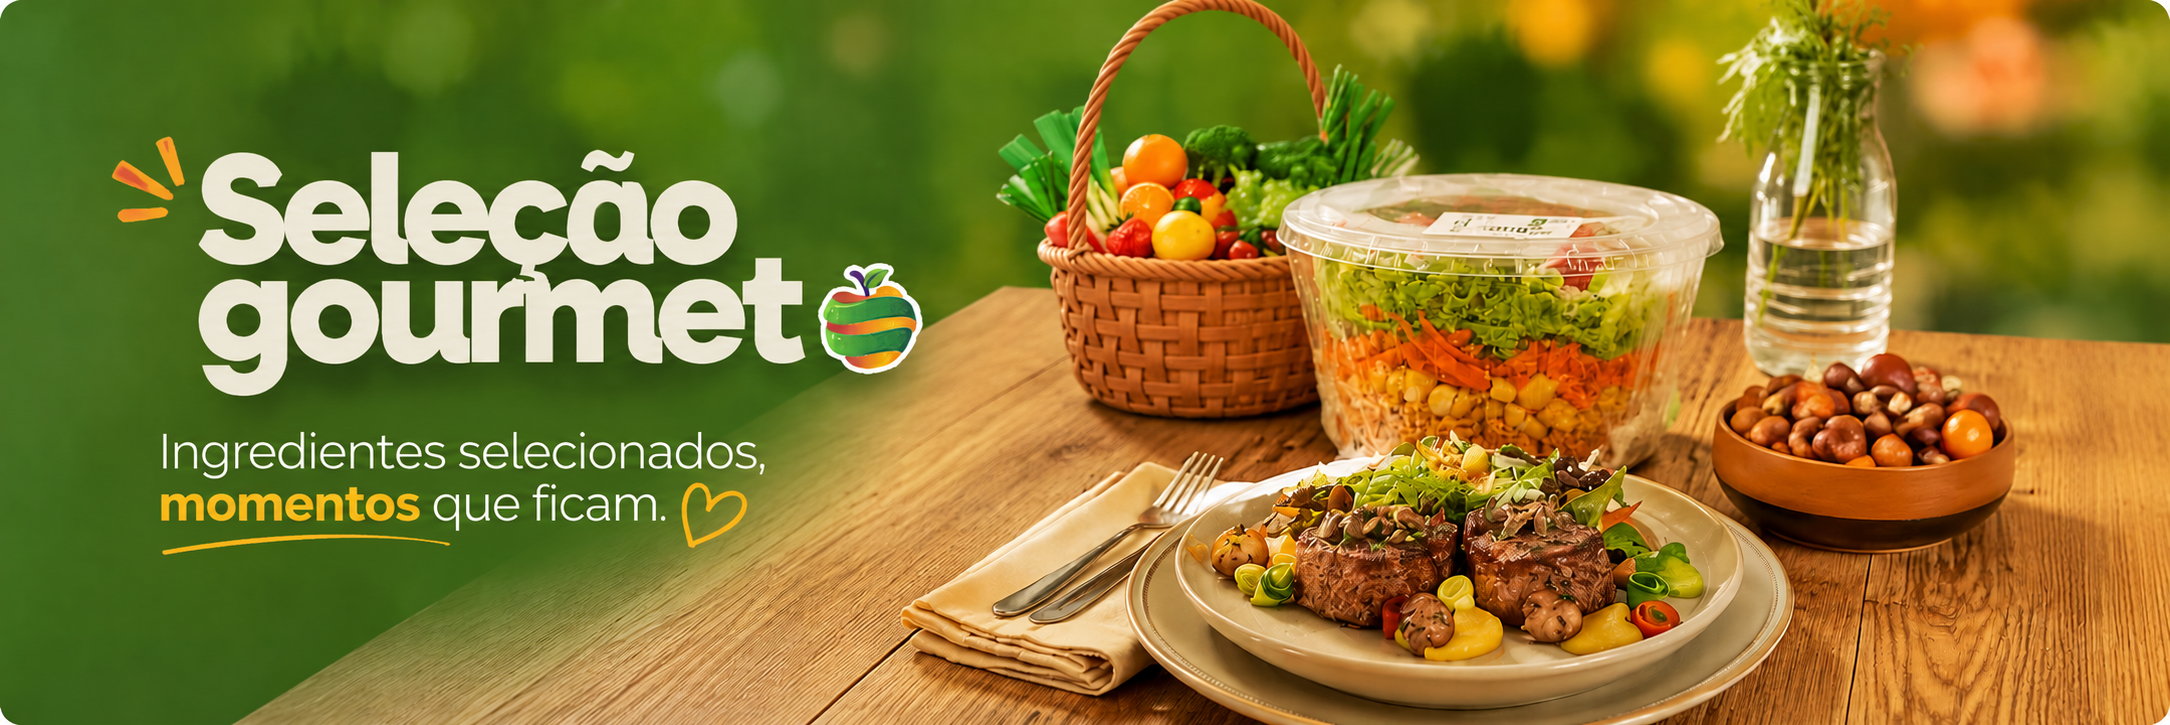
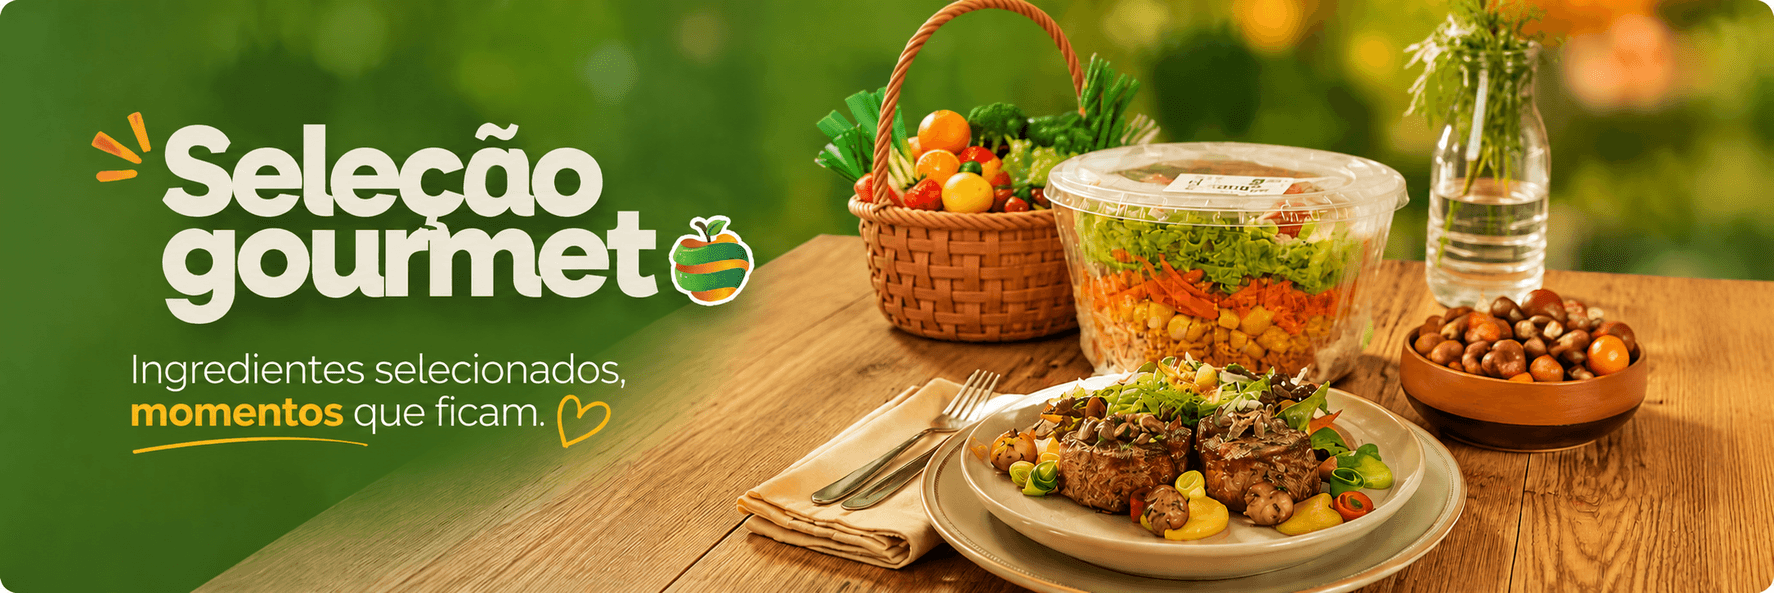
fix: resolve carousel image display issues

diff --git a/src/features/hero/hero-banner.tsx b/src/features/hero/hero-banner.tsx
@@ -67,6 +67,7 @@ export function HeroBanner({ banners = heroBanners }: HeroBannerProps) {
     hasHorizontalIntent: false,
   })
   const hasMultipleBanners = imageBanners.length > 1
+  const activeIndex = imageBanners.length ? currentIndex % imageBanners.length : 0
 
   const pauseAutoplayTemporarily = useCallback(() => {
     if (!hasMultipleBanners) return
@@ -87,10 +88,10 @@ export function HeroBanner({ banners = heroBanners }: HeroBannerProps) {
     (nextIndex: number) => {
       if (!imageBanners.length) return
 
-      setDirection(nextIndex >= currentIndex ? 1 : -1)
+      setDirection(nextIndex >= activeIndex ? 1 : -1)
       setCurrentIndex((nextIndex + imageBanners.length) % imageBanners.length)
     },
-    [currentIndex, imageBanners.length]
+    [activeIndex, imageBanners.length]
   )
 
   const goToPrevious = useCallback(() => {
@@ -105,10 +106,10 @@ export function HeroBanner({ banners = heroBanners }: HeroBannerProps) {
 
   const getSlidePosition = useCallback(
     (index: number) => {
-      if (index === currentIndex) return 0
+      if (index === activeIndex) return 0
 
-      const previousIndex = (currentIndex - 1 + imageBanners.length) % imageBanners.length
-      const nextIndex = (currentIndex + 1) % imageBanners.length
+      const previousIndex = (activeIndex - 1 + imageBanners.length) % imageBanners.length
+      const nextIndex = (activeIndex + 1) % imageBanners.length
 
       if (index === previousIndex && index === nextIndex) {
         return dragOffset > 0 || direction < 0 ? -1 : 1
@@ -117,9 +118,9 @@ export function HeroBanner({ banners = heroBanners }: HeroBannerProps) {
       if (index === previousIndex) return -1
       if (index === nextIndex) return 1
 
-      return index > currentIndex ? 2 : -2
+      return index > activeIndex ? 2 : -2
     },
-    [currentIndex, direction, dragOffset, imageBanners.length]
+    [activeIndex, direction, dragOffset, imageBanners.length]
   )
 
   const finishDrag = useCallback(
@@ -258,12 +259,6 @@ export function HeroBanner({ banners = heroBanners }: HeroBannerProps) {
   )
 
   useEffect(() => {
-    if (currentIndex <= imageBanners.length - 1) return
-
-    setCurrentIndex(0)
-  }, [currentIndex, imageBanners.length])
-
-  useEffect(() => {
     if (!hasMultipleBanners || isAutoplayPaused) return
 
     const interval = window.setInterval(goToNext, AUTOPLAY_DELAY)
@@ -283,21 +278,6 @@ export function HeroBanner({ banners = heroBanners }: HeroBannerProps) {
     }
   }, [])
 
-  useEffect(() => {
-    if (!imageBanners.length) return
-
-    const preloadIndexes = new Set([
-      currentIndex,
-      (currentIndex + 1) % imageBanners.length,
-      (currentIndex - 1 + imageBanners.length) % imageBanners.length,
-    ])
-
-    preloadIndexes.forEach((index) => {
-      const preloadImage = new window.Image()
-      preloadImage.src = imageBanners[index].image
-    })
-  }, [currentIndex, imageBanners])
-
   if (!imageBanners.length) return null
 
   return (
@@ -305,7 +285,7 @@ export function HeroBanner({ banners = heroBanners }: HeroBannerProps) {
       <div className="relative mx-auto w-full max-w-[1560px] px-3 sm:px-5 lg:px-8 xl:px-10">
         <div
           ref={viewportRef}
-          className={`relative overflow-hidden rounded-2xl bg-[#102410] shadow-[0_18px_45px_rgba(31,41,55,0.08)] select-none touch-pan-y ${
+          className={`relative overflow-hidden rounded-2xl bg-[#102410] shadow-[0_14px_34px_rgba(31,41,55,0.08)] select-none touch-pan-y ${
             hasMultipleBanners ? (isDragging ? "cursor-grabbing" : "cursor-grab") : ""
           }`}
           style={{ height: "clamp(190px, 28vw, 450px)" }}
@@ -316,16 +296,18 @@ export function HeroBanner({ banners = heroBanners }: HeroBannerProps) {
           onWheel={handleWheel}
         >
           {imageBanners.map((banner, index) => {
-            const isActive = index === currentIndex
+            const isActive = index === activeIndex
             const slidePosition = getSlidePosition(index)
             const isNearbySlide = Math.abs(slidePosition) <= 1
+
+            if (!isNearbySlide) return null
 
             return (
               <div
                 key={banner.id}
                 className={`absolute inset-0 bg-[#102410] will-change-transform ${
                   isDragging ? "" : "transition-transform duration-[650ms] ease-out"
-                } ${isNearbySlide ? "opacity-100" : "opacity-0"} ${isActive ? "z-10" : "z-0"}`}
+                } opacity-100 ${isActive ? "z-10" : "z-0"}`}
                 style={{
                   transform: `translate3d(calc(${slidePosition * 100}% + ${dragOffset}px), 0, 0)`,
                 }}
@@ -336,7 +318,7 @@ export function HeroBanner({ banners = heroBanners }: HeroBannerProps) {
                   alt={banner.title}
                   fill
                   priority={index === 0}
-                  loading={index === 0 ? undefined : "eager"}
+                  loading={index === 0 ? undefined : "lazy"}
                   sizes="(min-width: 1600px) 1480px, (min-width: 1024px) calc(100vw - 80px), calc(100vw - 24px)"
                   draggable={false}
                   style={{
@@ -387,10 +369,10 @@ export function HeroBanner({ banners = heroBanners }: HeroBannerProps) {
                 <button
                   key={banner.id}
                   className={`h-2.5 rounded-full transition-all duration-300 ${
-                    index === currentIndex ? "w-8 bg-card" : "w-2.5 bg-card/55 hover:bg-card/80"
+                    index === activeIndex ? "w-8 bg-card" : "w-2.5 bg-card/55 hover:bg-card/80"
                   }`}
                   role="tab"
-                  aria-selected={index === currentIndex}
+                  aria-selected={index === activeIndex}
                   aria-label={`Banner ${index + 1}`}
                   onClick={() => {
                     pauseAutoplayTemporarily()

diff --git a/src/components/shared/horizontal-carousel.tsx b/src/components/shared/horizontal-carousel.tsx
@@ -1,11 +1,13 @@
 "use client"
 
+import { useCallback, useRef, useState } from "react"
+import type { PointerEvent, ReactNode } from "react"
 import { ChevronLeft, ChevronRight } from "lucide-react"
 import { Button } from "@/components/ui/button"
 import { cn } from "@/lib/utils"
 
 interface HorizontalCarouselProps {
-  children: React.ReactNode
+  children: ReactNode
   showNavigation?: boolean
   className?: string
   itemsClassName?: string
@@ -17,30 +19,93 @@ export function HorizontalCarousel({
   className,
   itemsClassName,
 }: HorizontalCarouselProps) {
+  const scrollerRef = useRef<HTMLDivElement>(null)
+  const [isDragging, setIsDragging] = useState(false)
+  const dragStateRef = useRef({
+    pointerId: null as number | null,
+    startX: 0,
+    scrollLeft: 0,
+  })
+
+  const scrollByPage = useCallback((direction: -1 | 1) => {
+    const scroller = scrollerRef.current
+
+    if (!scroller) return
+
+    scroller.scrollBy({
+      left: direction * Math.min(scroller.clientWidth * 0.9, 720),
+      behavior: "smooth",
+    })
+  }, [])
+
+  const handlePointerDown = useCallback((event: PointerEvent<HTMLDivElement>) => {
+    if (event.pointerType !== "mouse" || event.button !== 0) return
+
+    dragStateRef.current = {
+      pointerId: event.pointerId,
+      startX: event.clientX,
+      scrollLeft: event.currentTarget.scrollLeft,
+    }
+    event.currentTarget.setPointerCapture(event.pointerId)
+    setIsDragging(true)
+  }, [])
+
+  const handlePointerMove = useCallback((event: PointerEvent<HTMLDivElement>) => {
+    const dragState = dragStateRef.current
+
+    if (dragState.pointerId !== event.pointerId) return
+
+    event.preventDefault()
+    event.currentTarget.scrollLeft = dragState.scrollLeft - (event.clientX - dragState.startX)
+  }, [])
+
+  const finishPointerDrag = useCallback((event: PointerEvent<HTMLDivElement>) => {
+    const dragState = dragStateRef.current
+
+    if (dragState.pointerId !== event.pointerId) return
+
+    if (event.currentTarget.hasPointerCapture(event.pointerId)) {
+      event.currentTarget.releasePointerCapture(event.pointerId)
+    }
+
+    dragStateRef.current.pointerId = null
+    setIsDragging(false)
+  }, [])
+
   return (
     <div className={cn("relative", className)}>
-      <div className={cn(
-        "flex gap-4 overflow-x-auto pb-4 scrollbar-hide",
-        itemsClassName
-      )}>
+      <div
+        ref={scrollerRef}
+        className={cn(
+          "scrollbar-hide flex gap-4 overflow-x-auto overscroll-x-contain pb-4 scroll-smooth",
+          isDragging ? "cursor-grabbing select-none" : "cursor-grab",
+          itemsClassName
+        )}
+        onPointerDown={handlePointerDown}
+        onPointerMove={handlePointerMove}
+        onPointerUp={finishPointerDrag}
+        onPointerCancel={finishPointerDrag}
+      >
         {children}
       </div>
 
       {showNavigation && (
         <>
-          <Button 
-            variant="ghost" 
-            size="icon" 
-            className="absolute -left-4 top-1/2 -translate-y-1/2 bg-card shadow-lg rounded-full hidden md:flex"
+          <Button
+            variant="ghost"
+            size="icon"
+            className="absolute -left-4 top-1/2 hidden -translate-y-1/2 rounded-full bg-card shadow-md md:flex"
             aria-label="Anterior"
+            onClick={() => scrollByPage(-1)}
           >
             <ChevronLeft className="h-5 w-5" />
           </Button>
-          <Button 
-            variant="ghost" 
-            size="icon" 
-            className="absolute -right-4 top-1/2 -translate-y-1/2 bg-card shadow-lg rounded-full hidden md:flex"
-            aria-label="Próximo"
+          <Button
+            variant="ghost"
+            size="icon"
+            className="absolute -right-4 top-1/2 hidden -translate-y-1/2 rounded-full bg-card shadow-md md:flex"
+            aria-label="Proximo"
+            onClick={() => scrollByPage(1)}
           >
             <ChevronRight className="h-5 w-5" />
           </Button>

diff --git a/src/constants/banners.ts b/src/constants/banners.ts
@@ -10,50 +10,50 @@ export const heroBanners: Banner[] = [
     title: "Uvas com leite condensado",
     subtitle: "Uma combinacao doce, fresca e irresistivel.",
     bgColor: "bg-[#102410]",
-    image: "/banners/banner-uvas-leite-condensado.png",
+    image: "/banners/banner-uvas-leite-condensado.webp",
     imagePosition: "center 56%",
     ctaText: "Comprar agora",
-    ctaHref: "/ofertas/frutas",
+    ctaHref: "#produtos",
   },
   {
     id: 2,
     title: "Snacks Fitness",
     subtitle: "Opcoes leves e crocantes para sua rotina.",
     bgColor: "bg-[#103914]",
-    image: "/banners/banner-snacks-fitness.png",
+    image: "/banners/banner-snacks-fitness.webp",
     imagePosition: "center",
     ctaText: "Conhecer",
-    ctaHref: "/praticos",
+    ctaHref: "#praticidade",
   },
   {
     id: 3,
     title: "Praticidade",
     subtitle: "Produtos prontos para deixar seu fim de semana mais leve.",
     bgColor: "bg-[#143a0d]",
-    image: "/banners/banner-praticidade.png",
+    image: "/banners/banner-praticidade.webp",
     imagePosition: "center",
     ctaText: "Comprar agora",
-    ctaHref: "/praticos",
+    ctaHref: "#praticidade",
   },
   {
     id: 4,
     title: "Aqui tem de tudo",
     subtitle: "Variedade, frescor e conveniencia para o dia a dia.",
     bgColor: "bg-[#183b0d]",
-    image: "/banners/banner-aqui-tem-de-tudo.png",
+    image: "/banners/banner-aqui-tem-de-tudo.webp",
     imagePosition: "center",
     ctaText: "Conhecer",
-    ctaHref: "/ofertas",
+    ctaHref: "#ofertas",
   },
   {
     id: 5,
     title: "Selecao gourmet",
     subtitle: "Ingredientes selecionados, momentos que ficam.",
     bgColor: "bg-[#3b281c]",
-    image: "/banners/banner-selecao-gourmet.png",
+    image: "/banners/banner-selecao-gourmet.webp",
     imagePosition: "center",
     ctaText: "Comprar agora",
-    ctaHref: "/ofertas",
+    ctaHref: "#ofertas",
   },
 ]
 
@@ -64,7 +64,7 @@ export const promotionalOffers: Offer[] = [
     description: "Aproveite o melhor das frutas frescas",
     bgColor: "bg-gradient-to-br from-red-500 to-orange-500",
     icon: "🍎",
-    href: "/ofertas/frutas",
+    href: "#produtos",
   },
   {
     id: 2,
@@ -72,6 +72,6 @@ export const promotionalOffers: Offer[] = [
     description: "Os melhores rotulos com desconto",
     bgColor: "bg-gradient-to-br from-purple-600 to-purple-800",
     icon: "🍷",
-    href: "/adega",
+    href: "#ofertas",
   },
 ]
